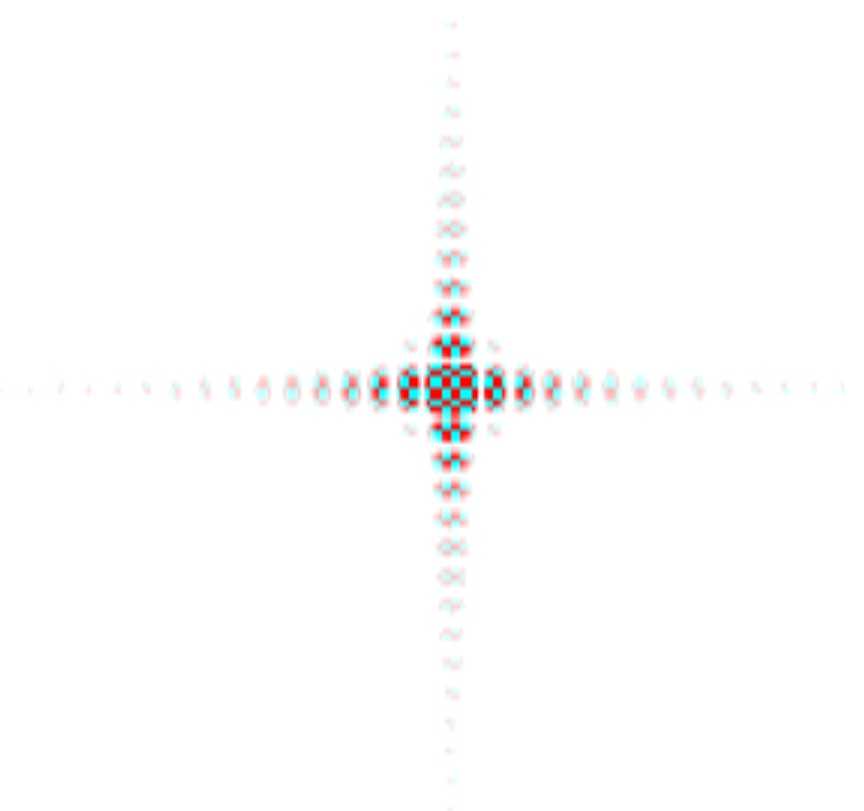
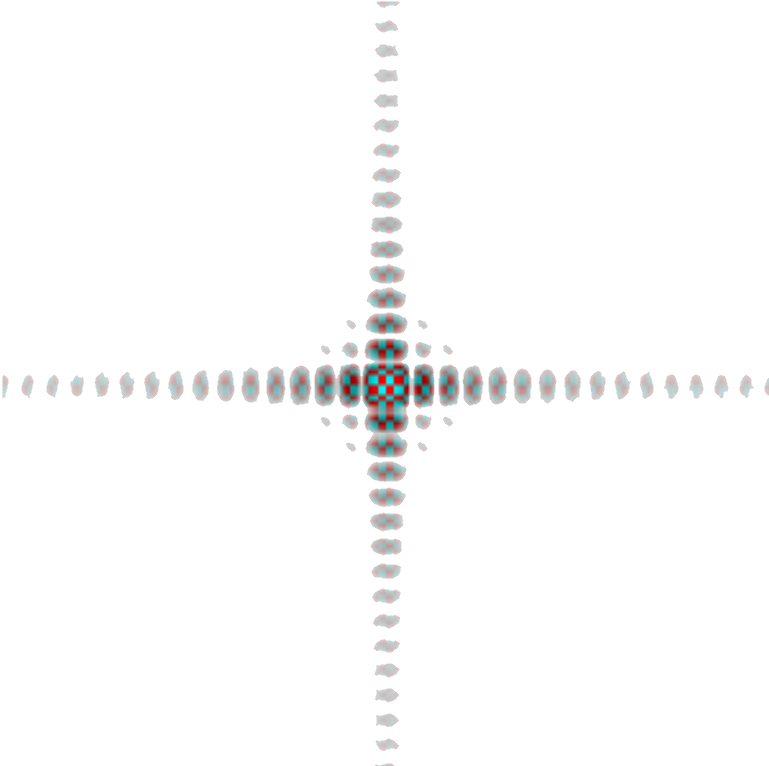
Bug fix 🐞

Changed region(s): [[0.0, 0.0, 1.0, 1.0]]

diff --git a/mathematics/fractals_chaos_game.js b/mathematics/fractals_chaos_game.js
@@ -54,7 +54,7 @@ function barnsleyFern(image) {
         const px = Math.trunc(width  * (x + 2.5) / 5);
         const py = Math.trunc(height - height * y / 10);
 
-        image.setColour(new Pixel(px, py, color));
+        image.setColourAt(px, py, color);
     }
 }
 
@@ -78,8 +78,7 @@ function cantorDust(image, a1=-1, b1=-1, a2=-1, b2=1, a3=1, b3=1, a4=1, b4=-1) {
         const index = Math.trunc(Math.random() * 4);
         x = .45 * (x + jump_points[index][0] * scale);
         y = .45 * (y + jump_points[index][1] * scale);
-        const pixel = new Pixel(Math.trunc(x + scale), Math.trunc(y + scale), colors[index]);
-        image.setColour(pixel);
+        image.setColourAt(Math.trunc(x + scale), Math.trunc(y + scale), colors[index]);
     }
 }
 
@@ -95,8 +94,7 @@ function fractal1(image, a1=-1, b1=-1, a2=-1, b2=1, a3=1, b3=1, a4=1, b4=-1) {
     for (let i = 0; i < 1E6; i++) {
         x = .5 * (x + jump_points[currentVertex][0] * scale);
         y = .5 * (y + jump_points[currentVertex][1] * scale);
-        const pixel = new Pixel(Math.trunc(x + scale), Math.trunc(y + scale), colors[currentVertex]);
-        image.setColour(pixel);
+        image.setColourAt(Math.trunc(x + scale), Math.trunc(y + scale), colors[currentVertex]);
 
         const sample = [0, 1, 2, 3];
         sample.splice(currentVertex, 1);
@@ -123,8 +121,7 @@ function fractal2(image) {
     for (let i = 0; i < 1E6; i++) {
         x = .5 * (x + jump_points[currentVertex][0] * scale);
         y = .5 * (y + jump_points[currentVertex][1] * scale);
-        const pixel = new Pixel(Math.trunc(x + scale * .01), Math.trunc(y + scale * .01), colors[currentVertex]);
-        image.setColour(pixel);
+        image.setColourAt(Math.trunc(x + scale * .01), Math.trunc(y + scale * .01), colors[currentVertex]);
 
         const sample = [0, 1, 2, 3, 4];
         sample.splice(currentVertex, 1);
@@ -153,8 +150,7 @@ function sierpinskiCarpet(image, a1=-1, b1=-1, a2=-1, b2=1, a3=1, b3=1, a4=1, b4
         const index = Math.trunc(Math.random() * 8);
         x = (x + 2 * jump_points[index][0] * scale) / 3;
         y = (y + 2 * jump_points[index][1] * scale) / 3;
-        const pixel = new Pixel(Math.trunc(x + scale), Math.trunc(y + scale), colors[index]);
-        image.setColour(pixel);
+        image.setColourAt(Math.trunc(x + scale), Math.trunc(y + scale), colors[index]);
     }
 }
 
@@ -180,8 +176,7 @@ function sierpinskiTriangle(image, a1=-.5, b1=-.433, a2=.5, b2=-.433, a3=0, b3=.
         const index = Math.trunc(Math.random() * 3);
         x = .5 * (x + jump_points[index][0] * scale);
         y = .5 * (y + jump_points[index][1] * scale);
-        const pixel = new Pixel(Math.trunc(x + scale * .5), Math.trunc(scale * .5 - y), colors[index]);
-        image.setColour(pixel);
+        image.setColourAt(Math.trunc(x + scale * .5), Math.trunc(scale * .5 - y), colors[index]);
     }
 }
 
@@ -208,7 +203,7 @@ function tSquare(image, a1=-1, b1=-1, a2=-1, b2=1, a3=1, b3=1, a4=1, b4=-1) {
         y = .5 * (y + jump_points[currentVertex][1] * scale);
 
         const pixel = new Pixel(Math.trunc(x + scale), Math.trunc(y + scale), colors[currentVertex]);
-        image.setColour(pixel);
+        image.setColourAt(pixel);
 
         const sample = [0, 1, 2, 3]
         if (currentVertex === 0)
@@ -235,8 +230,7 @@ function vicsekFractal(image, a1=-1, b1=-1, a2=-1, b2=1, a3=1, b3=1, a4=1, b4=-1
         const index = Math.trunc(Math.random() * 5);
         x = (x + 2 * jump_points[index][0] * scale) / 3;
         y = (y + 2 * jump_points[index][1] * scale) / 3;
-        const pixel = new Pixel(Math.trunc(x + scale), Math.trunc(y + scale), colors[index]);
-        image.setColour(pixel);
+        image.setColourAt(Math.trunc(x + scale), Math.trunc(y + scale), colors[index]);
     }
 }
 

diff --git a/js/canvas-extensions.js b/js/canvas-extensions.js
@@ -77,18 +77,10 @@ export class PixelImage {
         imageData[index++] = pixel.color[0];
         imageData[index++] = pixel.color[1];
         imageData[index++] = pixel.color[2];
-        imageData[index++] = (pixel.color[3] ?? 1);
+        imageData[index++] = (pixel.color[3] ?? 255);
     }
 
-    getPixelColourAt(x, y) { return this.colours[x][y]; }
-
-    setColour = (pixel) => {
-        if (pixel.x < 0 || pixel.y < 0 || pixel.x >= this.dimX() || pixel.y >= this.dimY()) return;
-        this.colours[pixel.x][pixel.y] = pixel.color;
-    }
-
-    // Faster version than setColour(), since it does not involve creation of a Pixel object
-    setColourAt = (x, y, color) => {
+    setColourAt(x, y, color) {
         if (x < 0 || y < 0 || x >= this.dimX() || y >= this.dimY()) return;
         this.colours[x][y] = color;
     }
@@ -121,7 +113,7 @@ export class PixelImage {
             const r = fromPixel.color[0] + dr * step;
             const g = fromPixel.color[1] + dg * step;
             const b = fromPixel.color[2] + db * step;
-            this.setColour(new Pixel(x0, y0, [r * 255, g * 255, b * 255]));
+            this.setColourAt(x0, y0, [r * 255, g * 255, b * 255]);
 
             if (x0 === x1 && y0 === y1) break;
 

diff --git a/mathematics/fourier_transform.js b/mathematics/fourier_transform.js
@@ -74,7 +74,7 @@ class FourierTransform {
             for (let j = 0; j < N; j++) {
                 const re = real[i][j];
                 const im = imag[i][j];
-                const value = re * re + im * im;
+                const value = Math.sqrt(re * re + im * im);
                 const phase = Math.atan2(im, re); // [-π, π]
                 intensity[i][j] = value;
                 phaseArray[i][j] = phase;
@@ -114,8 +114,8 @@ function drawToImage(image, magnitude, phase, max) {
             const hue = (ph + Math.PI) / (2 * Math.PI);
             const {r, g, b} = hsvToRgb(hue, 1, 1);
             const brightness = Math.pow(mag, 0.3);
-            const alpha = Math.log(1 + 100 * mag);
-            image.setColourAt(i, j,[r * brightness, g * brightness, b * brightness, alpha]);
+            const alpha = Math.log(1 + 10 * mag);
+            image.setColourAt(i, j,[r * brightness, g * brightness, b * brightness, alpha * 255]);
         }
 }
 

diff --git a/optics/fraunhofer_diffraction.js b/optics/fraunhofer_diffraction.js
@@ -118,10 +118,10 @@ function wavelengthColor(value) {
 
     // intensity → brightness modulation only
     return [
-        base.r,
-        base.g,
-        base.b,
-        Math.pow(value, 0.5)
+        base.r * 255,
+        base.g * 255,
+        base.b * 255,
+        Math.pow(value, 0.5) * 255
     ];
 }
 
@@ -129,7 +129,7 @@ function drawToImage(image, data, useSpectralColor=true) {
     for (let i = 0; i < resolution; i++)
         for (let j = 0; j < resolution; j++) {
             const value = Math.pow(data[i][j] / electricField.maxIntensity, popFactor);
-            image.setColourAt(i, j, useSpectralColor ? wavelengthColor(value) : [1, 1, 1, Math.sqrt(value)]);
+            image.setColourAt(i, j, useSpectralColor ? wavelengthColor(value) : [255, 255, 255, Math.sqrt(value)]);
         }
 }
 

diff --git a/mathematics/mandelbrot.js b/mathematics/mandelbrot.js
@@ -203,7 +203,7 @@ class Julia extends Fractal {
             n += 1;
         }
 
-        this.image.setColour(new Pixel(x, y, this.colorFunction(z, n, this.maxIter)));
+        this.image.setColourAt(x, y, this.colorFunction(z, n, this.maxIter));
     }
 }
 
@@ -222,7 +222,7 @@ class BurningShip extends Fractal {
             n += 1;
         }
 
-        this.image.setColour(new Pixel(x, y, colorPalette(z, n, this.maxIter)));
+        this.image.setColourAt(x, y, colorPalette(z, n, this.maxIter));
     }
 }
 

diff --git a/mathematics.html b/mathematics.html
@@ -115,7 +115,7 @@ holds the reins of everything from tiny atoms to the biggest stars. &mdash;
         </a>
       </figure>
       <figure class="right_image">
-        <a href="mathematics/fractal_terrain_surface.html">
+        <a href="mathematics/fractal_terrain.html">
           <img alt="Fractal terrains" src="./mathematics/images/fractal_terrain_surface.png" title="Fractal terrains"/>
         </a>
       </figure>

diff --git a/mathematics/fractals.md b/mathematics/fractals.md
@@ -116,5 +116,3 @@ In a certain sense, the fractal itself is a kind of
 <p style="clear: both;"></p>
 
 {% include share_buttons.html %}
-
-{% include share_buttons.html %}
